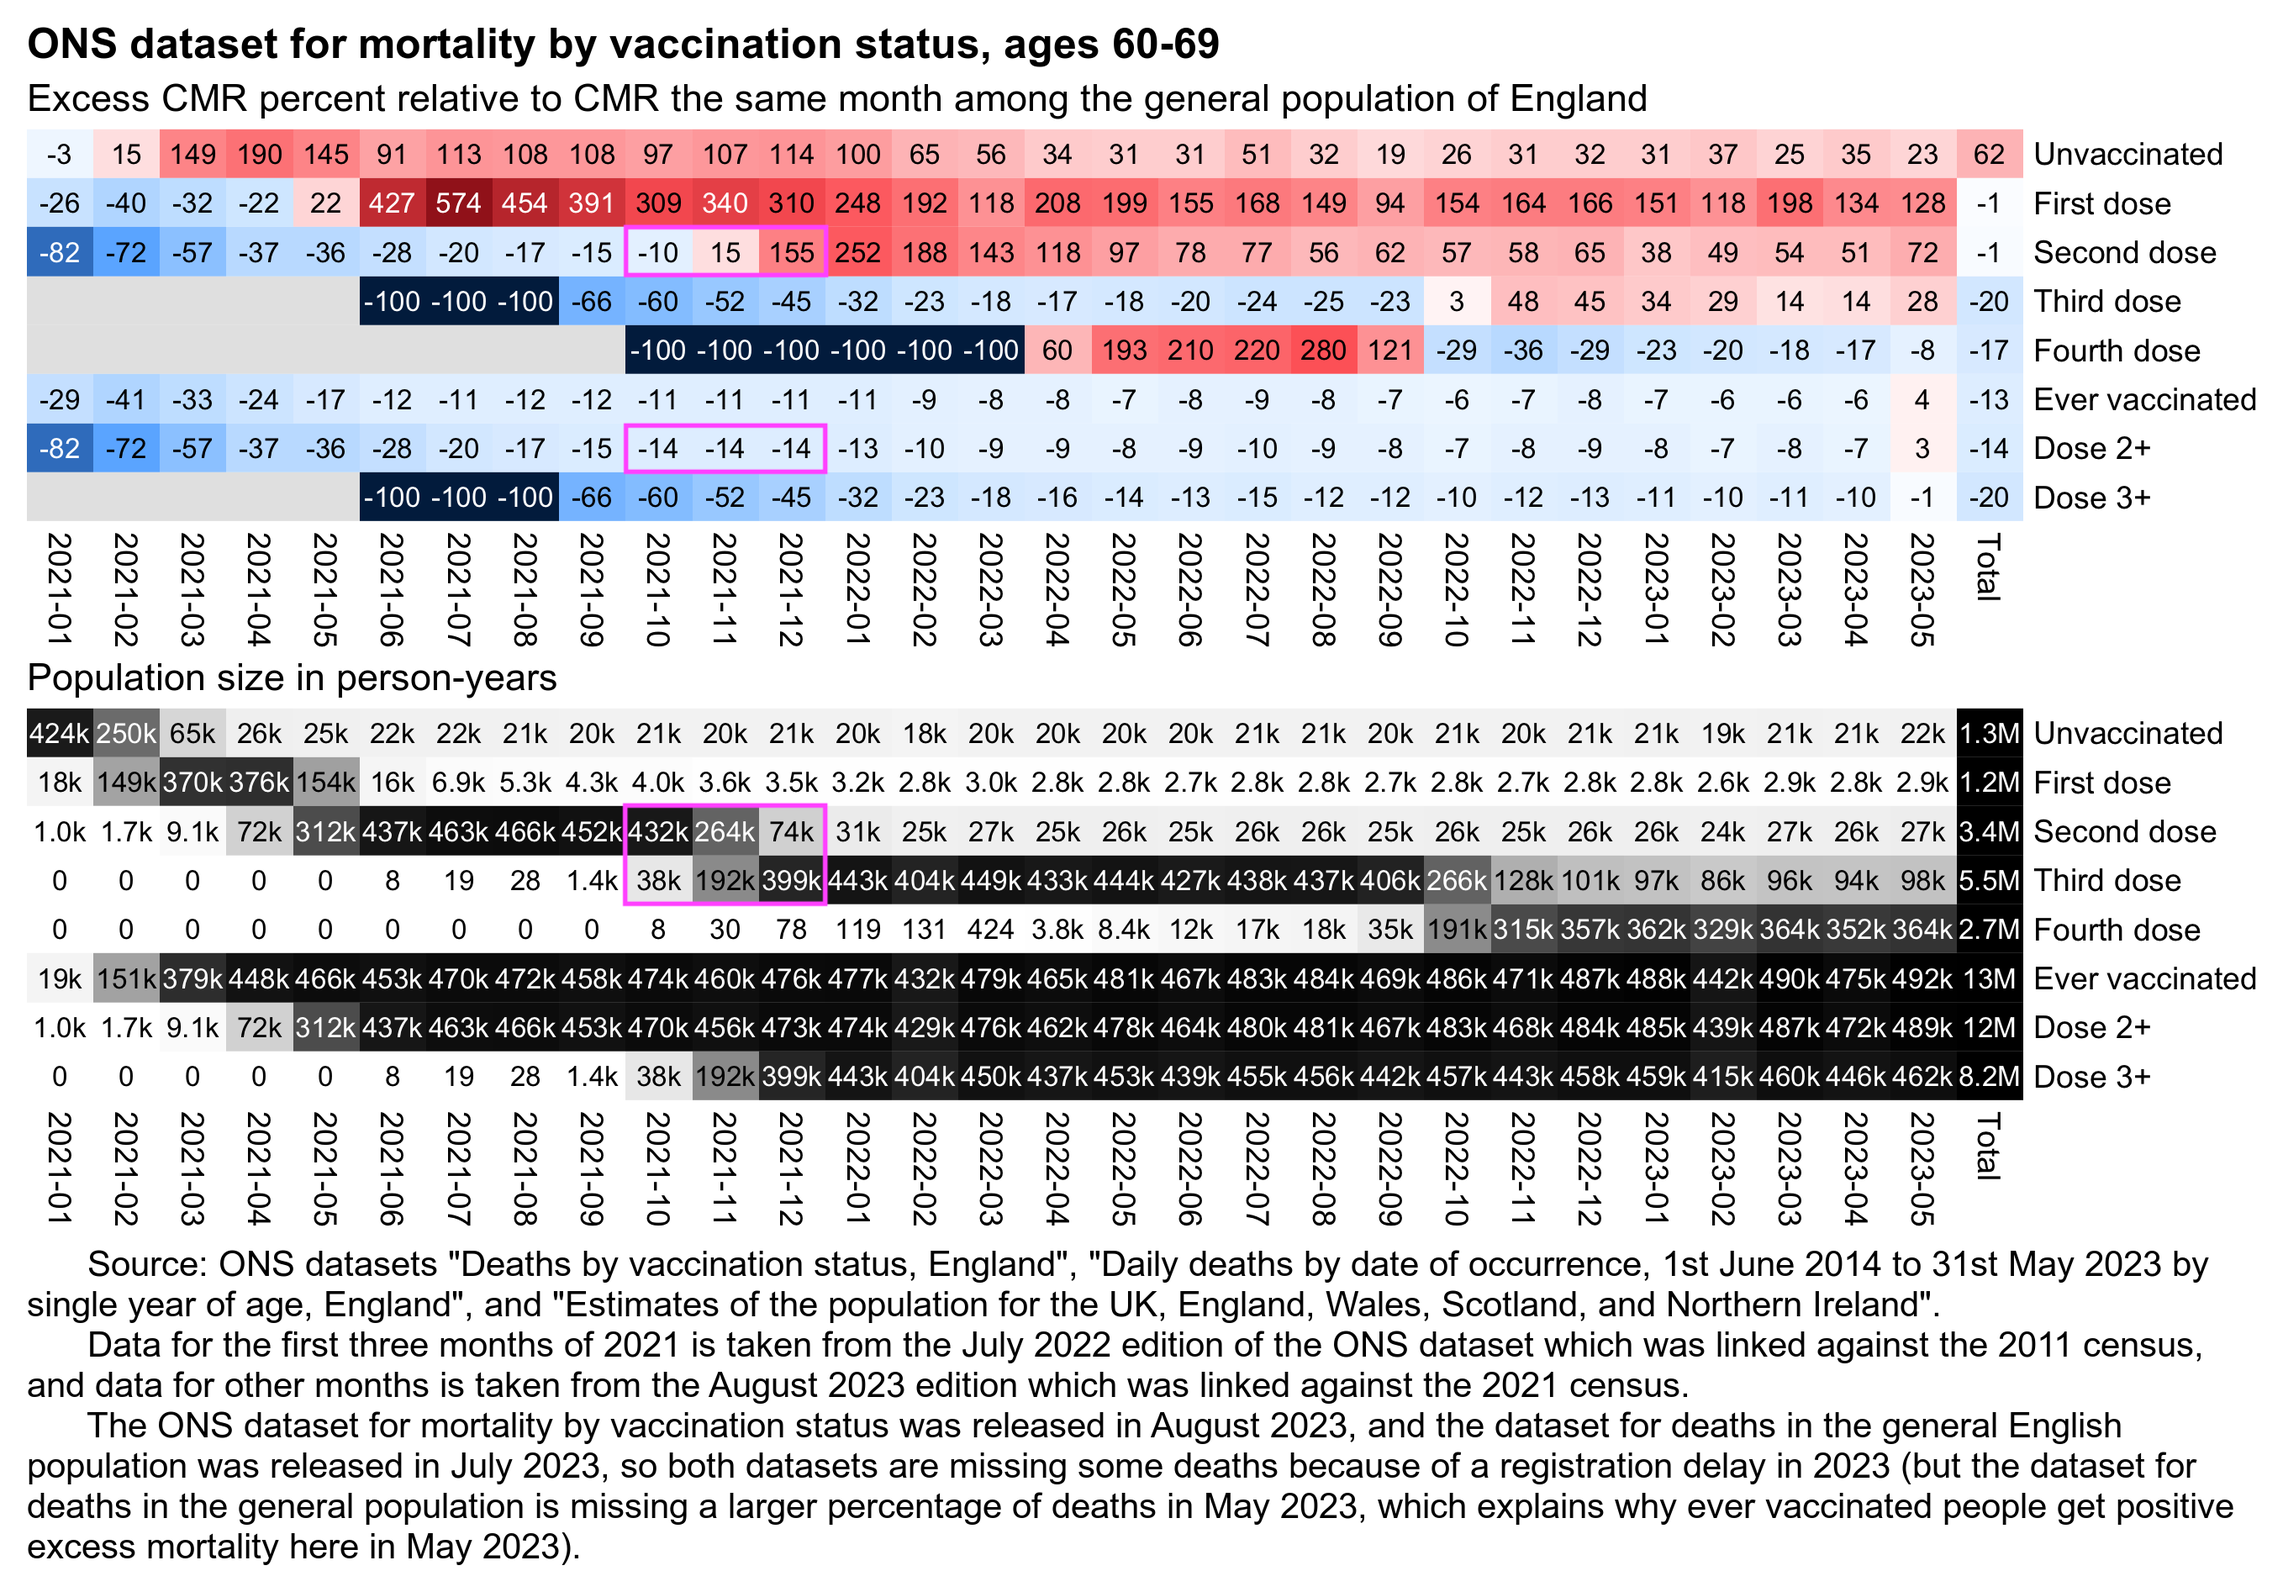
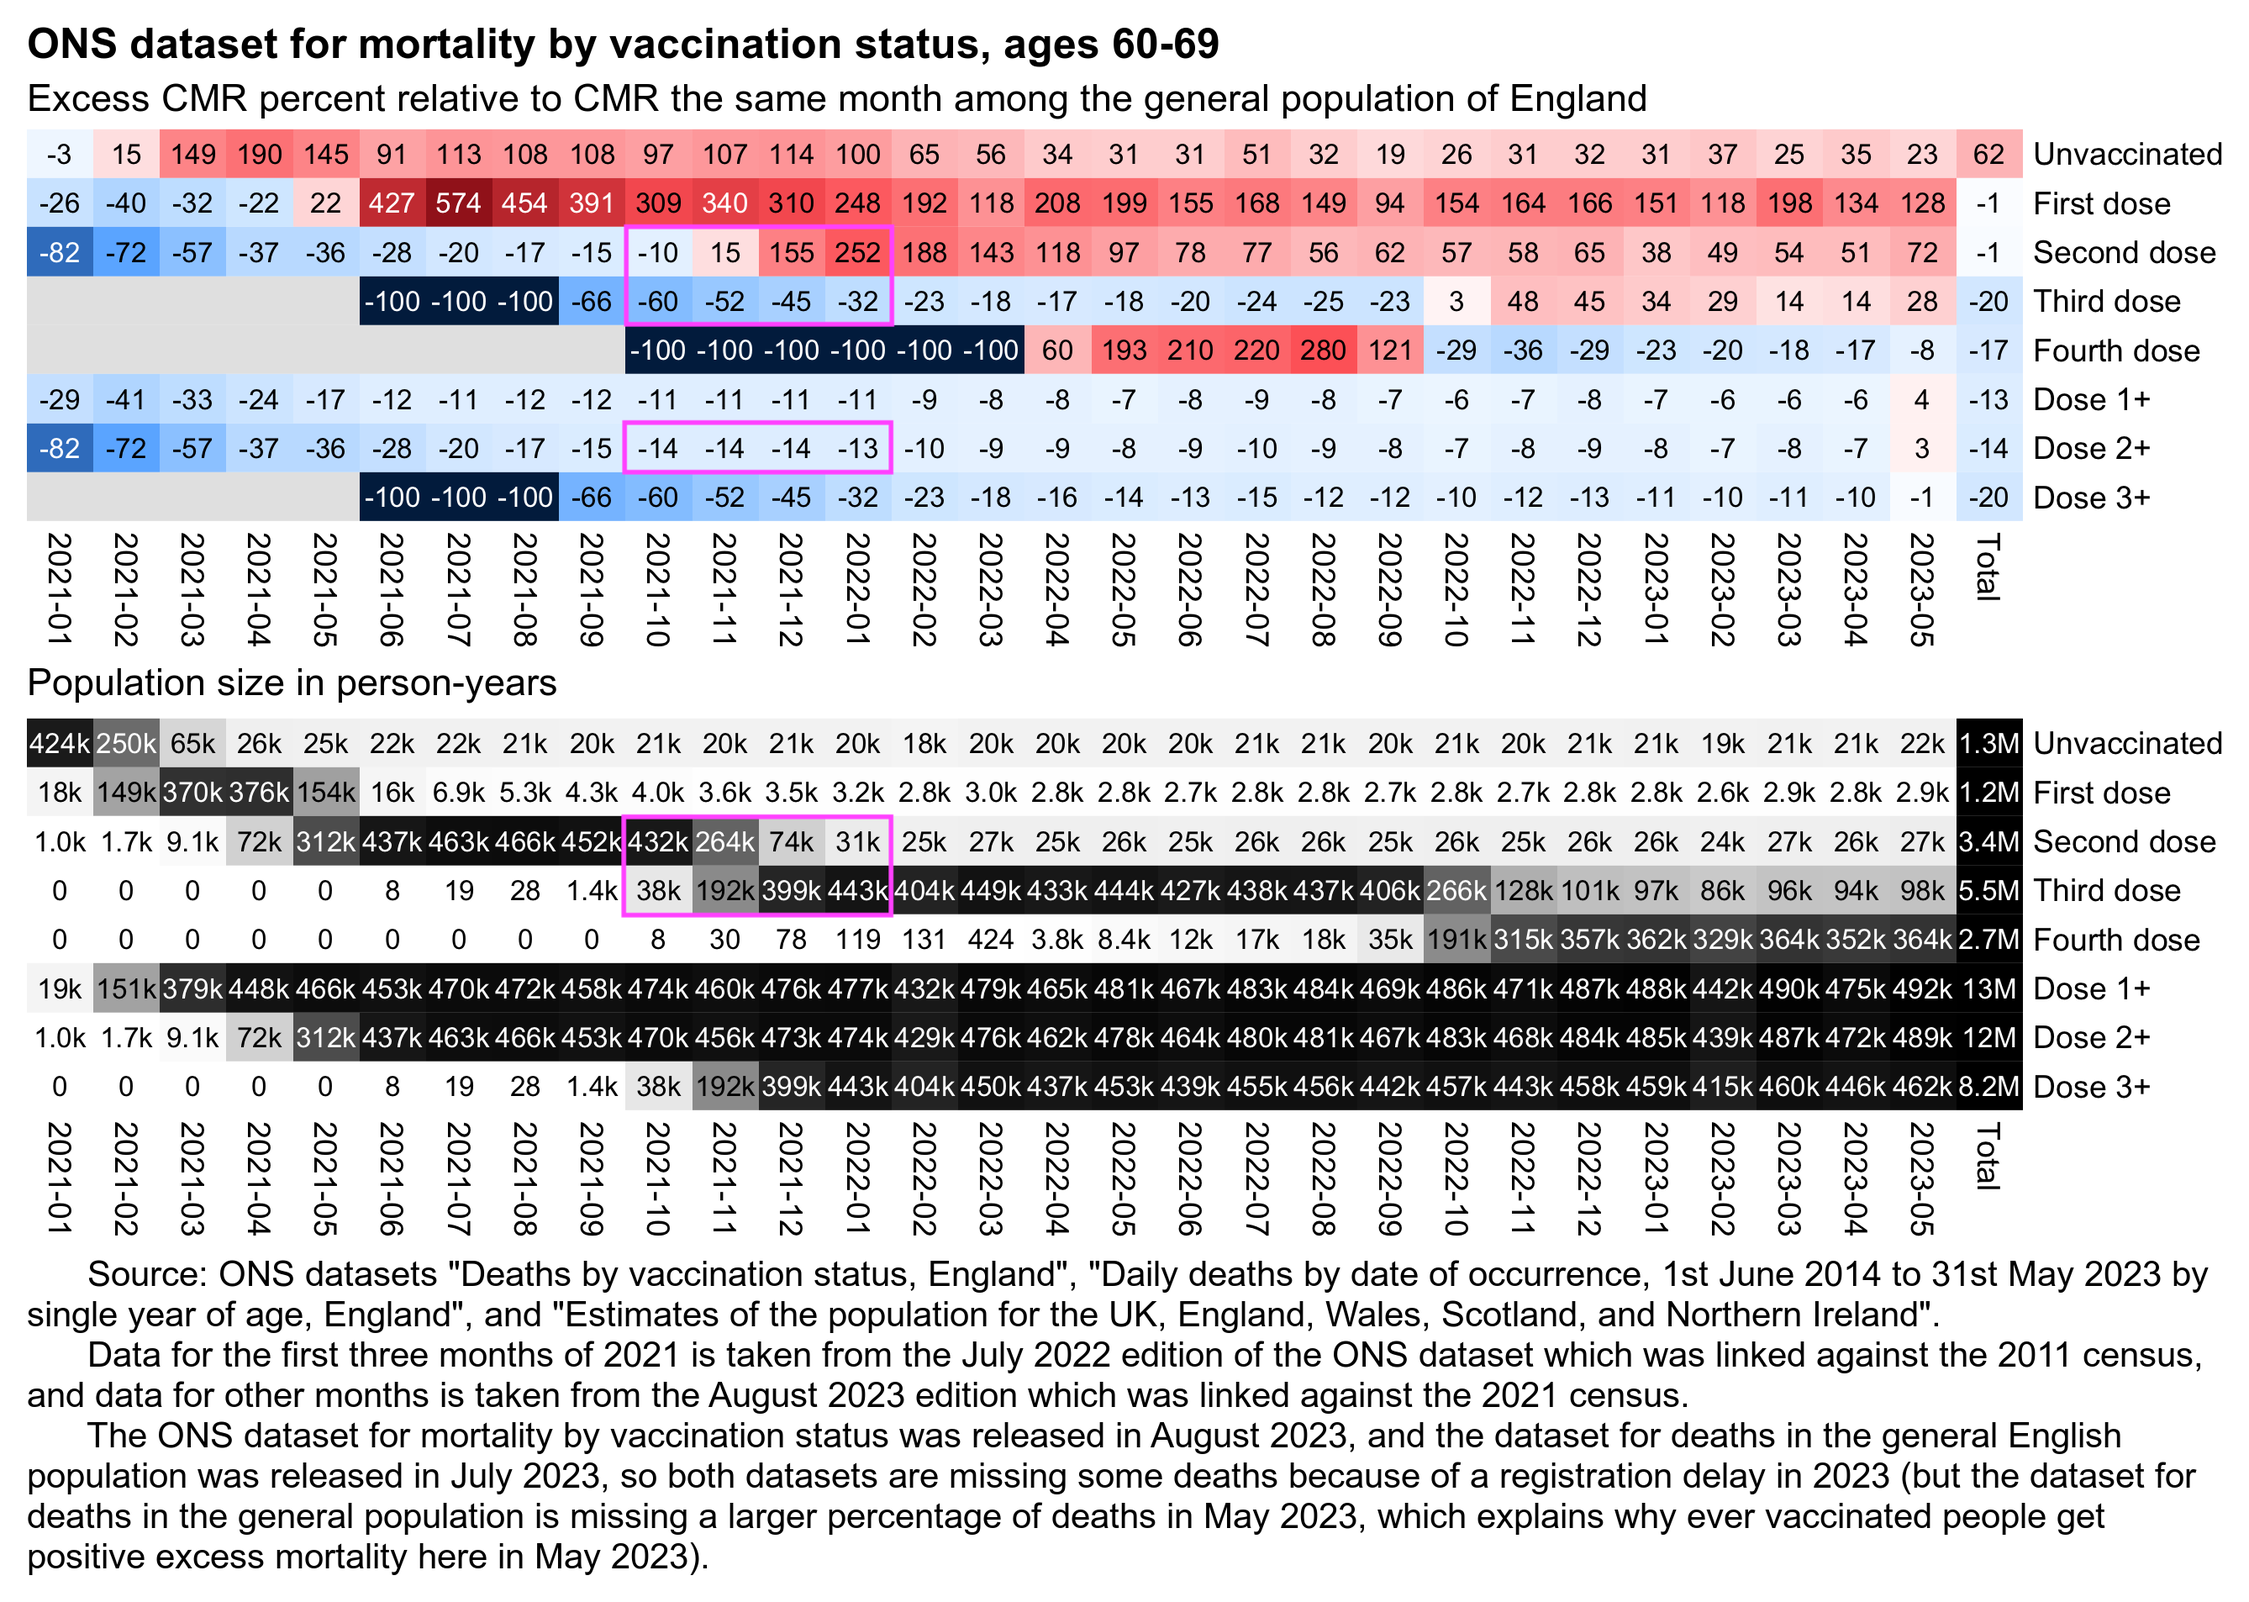
a

Changed region(s): [[0.0, 0.0, 0.9925, 0.9968]]

diff --git a/rootclaim4.html b/rootclaim4.html
@@ -367,7 +367,7 @@ ggsave(&quot;1.png&quot;,width=6,height=3.7,dpi=300*4)
 system(&quot;magick 1.png -trim -resize 25% -bordercolor white -border 24 -dither none -colors 256 1.png&quot;)</pre>
 </div>
 <p>Fenton et al. have hypothesized that the reason why the mortality rate of people with two but not more doses shot up when the third dose was rolled out was because people who died soon after getting the third dose were misclassified under the second dose. But if that was the case, you'd expect there to also be an increase in the mortality rate of people with two or more doses.</p>
-<p>But that's not the case, as you can also see from the next plot where I plotted an excess crude mortality rate in ages 60-69 relative to the general population of England. It shows that in December 2021 people with three doses had about 45% lower crude mortality rate than the general population of England. So conversely people who remained under the second dose had elevated mortality in December 2021, because the total mortality of people with two or more doses remained stable. In October 2021 people with three doses had -60% excess mortality which was even lower than in December 2021, but in October the population size of people with two doses was still so large that people with two doses also had negative excess mortality. But the excess mortality of people with two doses shot up over the next three months as more people moved under the third dose, so that the monthly person-years of people with two doses dropped from about 432,000 in October 2021 to about 31,000 in January 2022:</p>
+<p>But that's not the case, as you can also see from the next plot where I plotted an excess crude mortality rate in ages 60-69 relative to the general population of England. It shows that in December 2021 people with three doses had about 45% lower crude mortality rate than the general population of England. So conversely people who remained under the second dose had elevated mortality in December 2021, because the total mortality of people with two or more doses remained stable. In October 2021 people with three doses had -60% excess mortality which was even lower than in December 2021, but in October the population size of people with two doses was still so large that people with two doses still had negative excess mortality. But the excess mortality of people with two doses gradually increased over the next three months as more people moved under the third dose, so that the monthly person-years of people with two doses dropped from about 432,000 in October 2021 to about 31,000 in January 2022:</p>
 <div class="width10">
 <img src="i/rootclaim-onsrate-5.png">
 </div>
@@ -427,7 +427,7 @@ sub=&quot;\u00a0     Source: ONS datasets \&quot;Deaths by vaccination status, E
 
 system(paste0(&quot;mogrify -trim i[12].png;w=`identify -format %w i1.png`;magick -size $w \\( -pointsize 50 -font Arial-Bold caption:&#39;ONS dataset for mortality by vaccination status, ages 60-69&#39; -splice x10 \\) -pointsize 45 -font Arial \\( caption:&#39;Excess CMR percent relative to CMR the same month among the general population of England&#39; i1.png -splice x24 \\) \\( caption:&#39;Population size in person-years&#39; i2.png -splice x24 \\) \\( -pointsize 42 -font Arial caption:&#39;&quot;,gsub(&quot;&#39;&quot;,&quot;&#39;\\\\&#39;&quot;,sub),&quot;&#39; -splice x20 \\) -append -trim -bordercolor white -border 32 1.png&quot;))</pre>
 </div>
-<p>So Kirsch was wrong that <span class="quote">"the vaccinated start dying in droves exactly when Omicron rolls out"</span>. The mortality rate of ever vaccinated people remained roughly stable even after Omicron emerged, but Kirsch's table only showed that the mortality rate of people with two but not more doses shot up in December 2021. But it wasn't because of Omicron but because the third dose was rolled out.</p>
+<p>So Kirsch was wrong that <span class="quote">"the vaccinated start dying in droves exactly when Omicron rolls out"</span>. The total mortality rate of vaccinated people remained roughly stable even after Omicron emerged, but Kirsch's table only showed that the mortality rate of people with two but not more doses went up in December 2021. But it wasn't because of Omicron but because the third dose was rolled out.</p>
 <script>
 let q=document.querySelectorAll('a,code,pre')
 for(let i=0;e=q[i];i++)e.innerHTML=e.innerHTML.replace(/(\w{60,})/g,x=>x.replace(/./g,'$&<wbr>')).replace(/([\041-\045\047-\057\072\075\077-\100\133-\137\173-\176])/g,'$1<wbr>')
